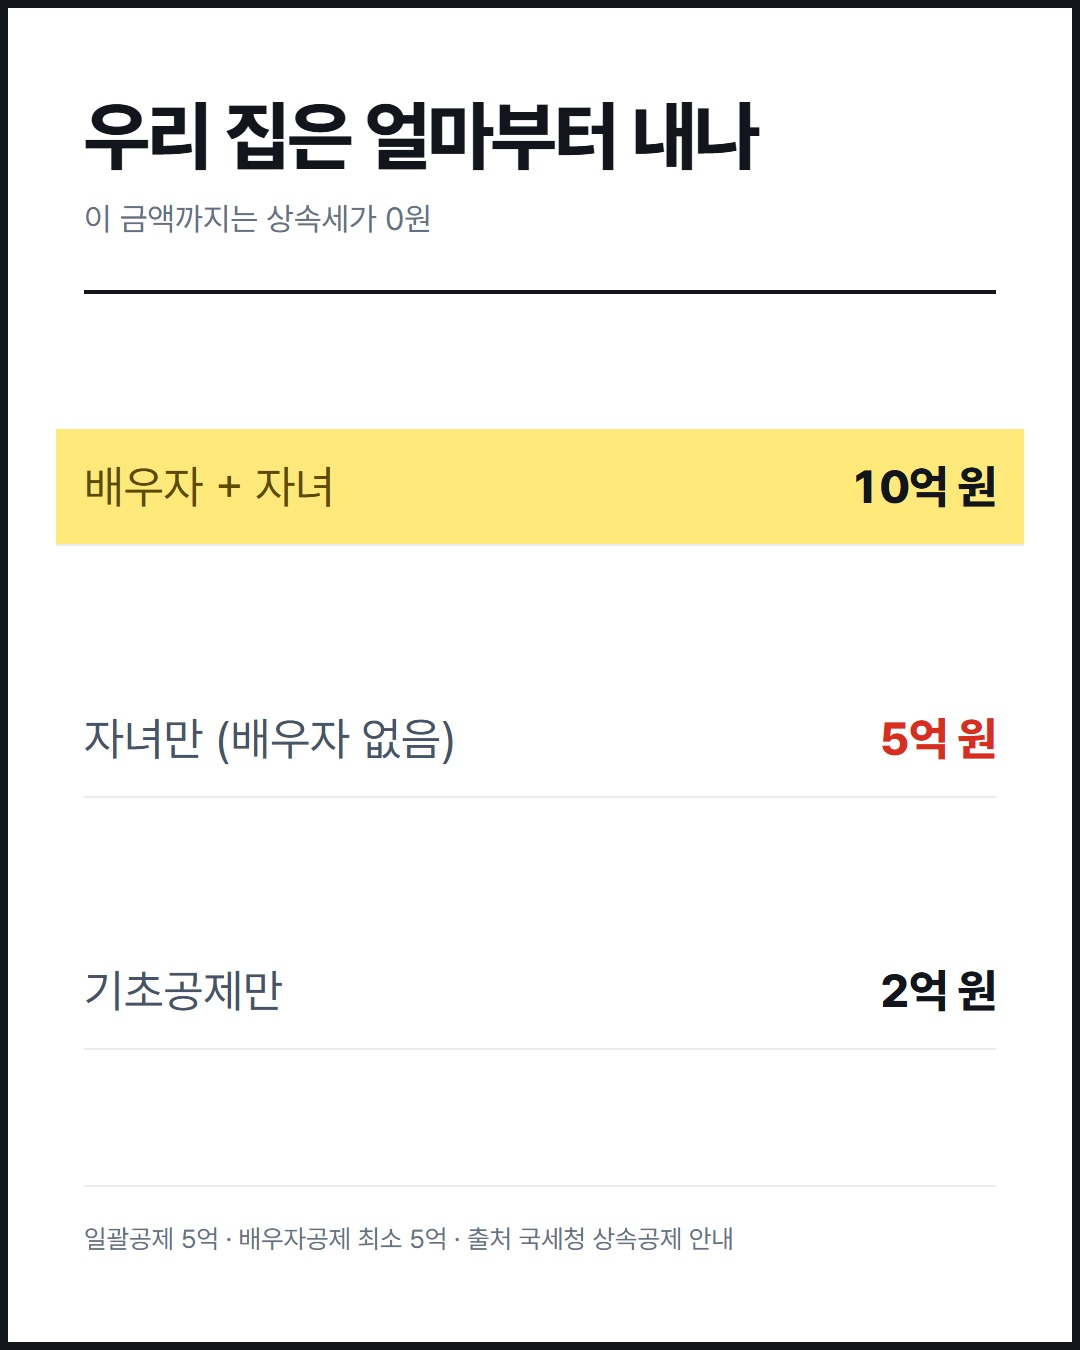
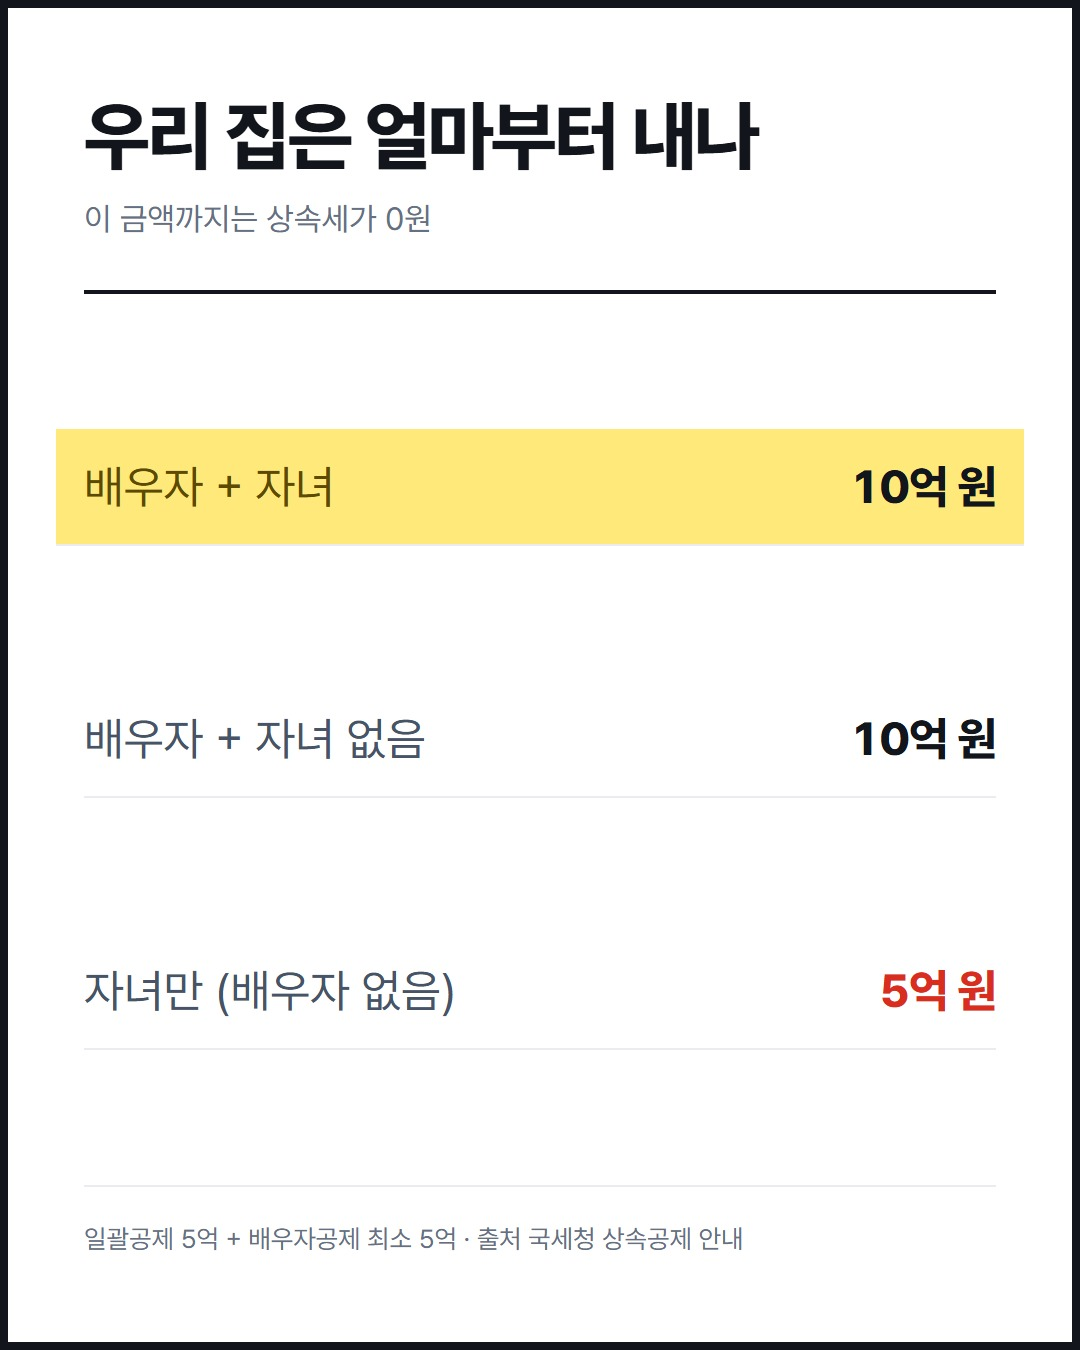
fix: 상속세 카드 면제한도 표 — 계산기에 없는 2억 행을 뺀다
"기초공제만 2억원" 행이 계산기와 맞지 않았다. deductionsFor() 는
기초공제 2억 + 인적공제와 일괄공제 5억 중 큰 쪽을 고르는데, 일괄공제가
늘 더 커서 taxFreeCeiling() 이 2억을 내놓는 가족 구성이 없다. 배우자도
자녀도 없어도 5억이다. 2억은 피상속인이 비거주자인 경우뿐인데 카드에는
그 맥락이 없어, 다른 행과 나란히 놓이면 가족 구성의 하나로 읽힌다.

행을 고르는 검사가 이것을 놓쳤다 — 배우자+자녀와 자녀만 두 행만 보고
있었다. 모든 행을 순회하도록 바꿨다. 나쁜 행을 도로 넣어 실패하는 것을
확인했다(expected 200000000 to be 500000000).

이미지를 다시 뽑았다(--set). 이 세트는 아직 인스타에 나가지 않았다 —
042 가 21:00 예약이고 큐에 "대기"로 떠 있다. 스킬이 확인을 요구하는
것은 이미 발행된 세트를 덮어쓰는 경우다.

diff --git a/src/lib/__tests__/cards.test.ts b/src/lib/__tests__/cards.test.ts
@@ -140,20 +140,28 @@ describe("inheritance-tax 카드", () => {
     expect(set).toBeDefined();
   });
 
-  it("면제한도 표가 계산기의 공제 합계와 같다", () => {
+  /**
+   * 행을 골라 검사하면 고르지 않은 행이 그대로 나간다. 실제로 "기초공제만
+   * 2억원" 행이 그렇게 실릴 뻔했다 — 일괄공제 5억이 늘 더 커서 계산기가
+   * 2억을 내놓는 가족 구성이 없는데, 검사에서 빠져 있어 안 걸렸다.
+   * 그래서 모든 행을 계산기로 되돌려 맞춘다.
+   */
+  it("면제한도 표의 모든 행이 계산기의 공제 합계와 같다", () => {
     const table = set!.cards.find(
       (c) => c.kind === "table" && c.title.includes("얼마부터"),
     );
     if (table?.kind !== "table") throw new Error("면제한도 표 없음");
-    const byLabel = (needle: string) =>
-      table.rows.find((r) => r.label.includes(needle))!;
 
-    expect(parseEok(byLabel("배우자 + 자녀").value)).toBe(
-      inheritanceCeiling({ hasSpouse: true, children: 2 }),
-    );
-    expect(parseEok(byLabel("자녀만").value)).toBe(
-      inheritanceCeiling({ hasSpouse: false, children: 2 }),
-    );
+    /** 행 라벨 → 계산기 입력. 라벨이 늘면 여기도 늘어야 한다. */
+    const household = (label: string) => ({
+      hasSpouse: label.includes("배우자") && !label.includes("배우자 없음"),
+      children: label.includes("자녀 없음") ? 0 : 2,
+    });
+
+    expect(table.rows.length).toBeGreaterThan(0);
+    for (const row of table.rows) {
+      expect(parseEok(row.value)).toBe(inheritanceCeiling(household(row.label)));
+    }
   });
 
   it("세액 표의 모든 행이 계산기 결과와 일치한다", () => {

diff --git a/src/data/cards.ts b/src/data/cards.ts
@@ -679,10 +679,10 @@ export const cardSets: CardSet[] = [
         sub: "이 금액까지는 상속세가 0원",
         rows: [
           { label: "배우자 + 자녀", value: "10억 원", tone: "mark" },
+          { label: "배우자 + 자녀 없음", value: "10억 원" },
           { label: "자녀만 (배우자 없음)", value: "5억 원", tone: "warn" },
-          { label: "기초공제만", value: "2억 원" },
         ],
-        footnote: "일괄공제 5억 · 배우자공제 최소 5억 · 출처 국세청 상속공제 안내",
+        footnote: "일괄공제 5억 + 배우자공제 최소 5억 · 출처 국세청 상속공제 안내",
       },
       {
         kind: "list",
